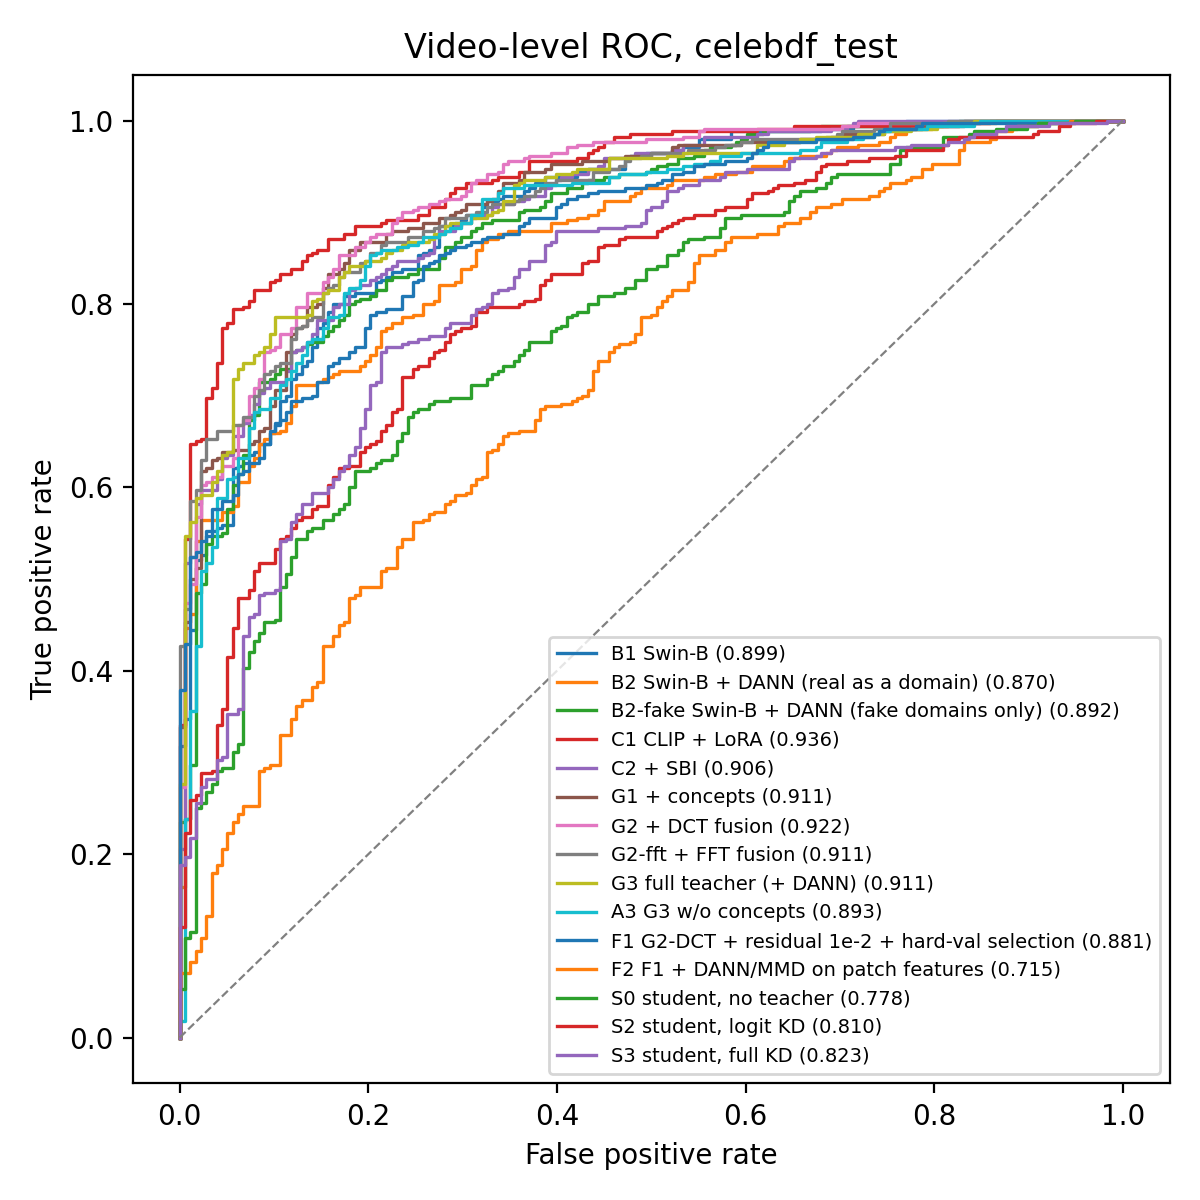
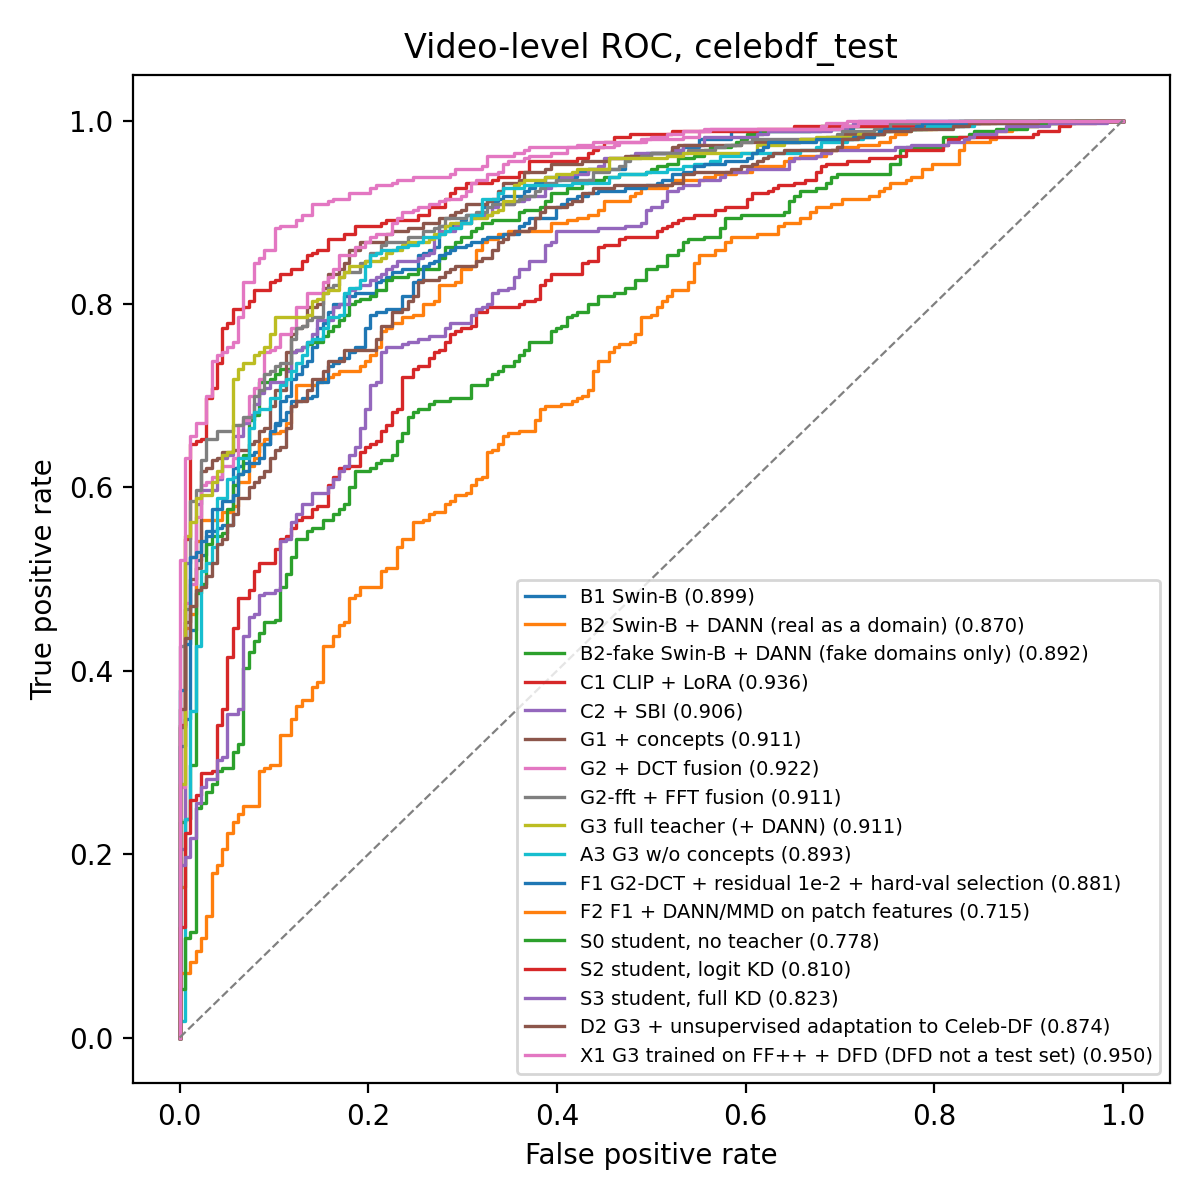
Final eval v2 (690 rows) + tables/summary/release v2; D2/X1 configs; STATUS

diff --git a/results/tables.md b/results/tables.md
@@ -6,7 +6,7 @@ Generated by `scripts/make_tables.py` from the run folders and `results/*.csv`. 
 
 | Model | FF++ test | DFD | Celeb-DF | Cross-dataset |
 | --- | --- | --- | --- | --- |
-| B1 Swin-B | 0.995 | 0.910 | 0.899 | 0.905 |
+| B1 Swin-B | 0.997 ± 0.002 | 0.914 ± 0.004 | 0.889 ± 0.010 | 0.901 ± 0.003 |
 | B2 Swin-B + DANN (real as a domain) | 0.995 | 0.870 | 0.870 | 0.870 |
 | B2-fake Swin-B + DANN (fake domains only) | 0.999 | 0.904 | 0.892 | 0.898 |
 | C1 CLIP + LoRA | 1.000 | 0.943 | 0.936 | 0.939 |
@@ -16,17 +16,19 @@ Generated by `scripts/make_tables.py` from the run folders and `results/*.csv`. 
 | G2-fft + FFT fusion | 0.998 | 0.937 | 0.911 | 0.924 |
 | G3 full teacher (+ DANN) | 1.000 | 0.959 | 0.911 | 0.935 |
 | A3 G3 w/o concepts | 0.998 | 0.962 | 0.893 | 0.928 |
-| F1 G2-DCT + residual 1e-2 + hard-val selection | 0.999 ± 0.000 | 0.949 ± 0.001 | 0.896 ± 0.014 | 0.922 ± 0.008 |
+| F1 G2-DCT + residual 1e-2 + hard-val selection | 0.997 ± 0.003 | 0.951 ± 0.003 | 0.901 ± 0.014 | 0.926 ± 0.008 |
 | F2 F1 + DANN/MMD on patch features | 0.962 | 0.813 | 0.715 | 0.764 |
 | S0 student, no teacher | 0.979 | 0.836 | 0.778 | 0.807 |
 | S2 student, logit KD | 0.991 | 0.869 | 0.810 | 0.839 |
-| S3 student, full KD | 0.981 ± 0.004 | 0.851 ± 0.003 | 0.801 ± 0.022 | 0.826 ± 0.013 |
+| S3 student, full KD | 0.978 ± 0.005 | 0.844 ± 0.011 | 0.808 ± 0.021 | 0.826 ± 0.010 |
+| D2 G3 + unsupervised adaptation to Celeb-DF | 0.999 | 0.949 | 0.874 | 0.911 |
+| X1 G3 trained on FF++ + DFD (DFD not a test set) | 0.997 | – | 0.950 | – |
 
 ### Frame AUC
 
 | Model | FF++ test | DFD | Celeb-DF | Cross-dataset |
 | --- | --- | --- | --- | --- |
-| B1 Swin-B | 0.989 | 0.871 | 0.842 | 0.857 |
+| B1 Swin-B | 0.991 ± 0.002 | 0.875 ± 0.004 | 0.828 ± 0.014 | 0.851 ± 0.005 |
 | B2 Swin-B + DANN (real as a domain) | 0.981 | 0.822 | 0.784 | 0.803 |
 | B2-fake Swin-B + DANN (fake domains only) | 0.990 | 0.881 | 0.851 | 0.866 |
 | C1 CLIP + LoRA | 0.995 | 0.883 | 0.835 | 0.859 |
@@ -36,11 +38,13 @@ Generated by `scripts/make_tables.py` from the run folders and `results/*.csv`. 
 | G2-fft + FFT fusion | 0.980 | 0.886 | 0.813 | 0.850 |
 | G3 full teacher (+ DANN) | 0.992 | 0.909 | 0.816 | 0.863 |
 | A3 G3 w/o concepts | 0.979 | 0.888 | 0.764 | 0.826 |
-| F1 G2-DCT + residual 1e-2 + hard-val selection | 0.983 ± 0.001 | 0.892 ± 0.002 | 0.795 ± 0.012 | 0.844 ± 0.007 |
+| F1 G2-DCT + residual 1e-2 + hard-val selection | 0.982 ± 0.001 | 0.895 ± 0.004 | 0.802 ± 0.013 | 0.848 ± 0.008 |
 | F2 F1 + DANN/MMD on patch features | 0.930 | 0.743 | 0.628 | 0.686 |
 | S0 student, no teacher | 0.961 | 0.802 | 0.719 | 0.760 |
 | S2 student, logit KD | 0.964 | 0.825 | 0.738 | 0.782 |
-| S3 student, full KD | 0.964 ± 0.004 | 0.825 ± 0.001 | 0.740 ± 0.013 | 0.782 ± 0.006 |
+| S3 student, full KD | 0.960 ± 0.006 | 0.820 ± 0.007 | 0.748 ± 0.016 | 0.784 ± 0.006 |
+| D2 G3 + unsupervised adaptation to Celeb-DF | 0.985 | 0.895 | 0.786 | 0.840 |
+| X1 G3 trained on FF++ + DFD (DFD not a test set) | 0.985 | – | 0.868 | – |
 
 ## 2. Ablation (each row changes one thing from the row above)
 
@@ -53,8 +57,8 @@ Generated by `scripts/make_tables.py` from the run folders and `results/*.csv`. 
 | G2-fft + FFT fusion | 0.998 | 0.924 | -0.024 |
 | G3 full teacher (+ DANN) | 1.000 | 0.935 | -0.013 |
 | A3 G3 w/o concepts | 0.998 | 0.928 | -0.007 |
-| F1 G2-DCT + residual 1e-2 + hard-val selection | 0.999 ± 0.000 | 0.922 ± 0.008 | -0.026 |
-| F2 F1 + DANN/MMD on patch features | 0.962 | 0.764 | -0.158 |
+| F1 G2-DCT + residual 1e-2 + hard-val selection | 0.997 ± 0.003 | 0.926 ± 0.008 | -0.022 |
+| F2 F1 + DANN/MMD on patch features | 0.962 | 0.764 | -0.162 |
 
 G2-fft is compared with G1; A3 is compared with G3; F1 with G2-DCT; F2 with F1. Final teacher (picked on val): F1 G2-DCT + residual 1e-2 + hard-val selection.
 
@@ -62,13 +66,13 @@ G2-fft is compared with G1; A3 is compared with G3; F1 with G2-DCT; F2 with F1. 
 
 | Model | clean | jpeg:30 | down:0.25 | h264:40 |
 | --- | --- | --- | --- | --- |
-| B1 Swin-B | 0.905 | 0.844 | 0.790 | 0.588 |
+| B1 Swin-B | 0.901 ± 0.003 | 0.823 ± 0.021 | 0.791 ± 0.001 | 0.590 ± 0.002 |
 | C1 CLIP + LoRA | 0.939 | 0.820 | 0.861 | 0.609 |
 | G3 full teacher (+ DANN) | 0.935 | 0.927 | 0.912 | 0.639 |
-| F1 G2-DCT + residual 1e-2 + hard-val selection | 0.922 ± 0.008 | 0.920 ± 0.005 | 0.892 ± 0.005 | 0.642 ± 0.018 |
+| F1 G2-DCT + residual 1e-2 + hard-val selection | 0.926 ± 0.008 | 0.923 ± 0.006 | 0.897 ± 0.007 | 0.643 ± 0.015 |
 | S0 student, no teacher | 0.807 | 0.808 | 0.816 | 0.598 |
 | S2 student, logit KD | 0.839 | 0.845 | 0.843 | 0.622 |
-| S3 student, full KD | 0.826 ± 0.013 | 0.830 ± 0.011 | 0.830 ± 0.007 | 0.614 ± 0.004 |
+| S3 student, full KD | 0.826 ± 0.010 | 0.833 ± 0.010 | 0.828 ± 0.007 | 0.621 ± 0.011 |
 
 Full grid: `results/robustness.csv`; curves: `results/fig_robustness_<split>.png`.
 
@@ -76,11 +80,11 @@ Full grid: `results/robustness.csv`; curves: `results/fig_robustness_<split>.png
 
 | Model | Params (M) | GFLOPs | GPU frames/s | CPU ms (ONNX, bs 1) | Cross clean | Cross jpeg:50 | Concept ρ vs teacher | Top-map IoU vs teacher |
 | --- | --- | --- | --- | --- | --- | --- | --- | --- |
-| B1 Swin-B | 86.75 | 15.43 | 640.3 | nan | 0.905 | 0.883 | – | – |
-| F1 G2-DCT + residual 1e-2 + hard-val selection | 306.94 | 81.46 | 286.2 | nan | 0.922 ± 0.008 | 0.946 ± 0.009 | – | – |
+| B1 Swin-B | 86.75 | 15.43 | 640.3 | nan | 0.901 ± 0.003 | 0.862 ± 0.021 | – | – |
+| F1 G2-DCT + residual 1e-2 + hard-val selection | 306.94 | 81.46 | 286.2 | nan | 0.926 ± 0.008 | 0.949 ± 0.008 | – | – |
 | S0 student, no teacher | 4.71 | 0.39 | 3834.6 | nan | 0.807 | 0.822 | 0.683 ± 0.038 | 0.149 ± 0.008 |
 | S2 student, logit KD | – | – | – | – | 0.839 | 0.855 | – | – |
-| S3 student, full KD | 4.71 | 0.39 | 3939.3 | 4.2 | 0.826 ± 0.013 | 0.842 ± 0.010 | 0.767 ± 0.022 | 0.121 ± 0.007 |
+| S3 student, full KD | 4.71 | 0.39 | 3939.3 | 4.2 | 0.826 ± 0.010 | 0.843 ± 0.008 | 0.767 ± 0.022 | 0.121 ± 0.007 |
 
 ## 5. Explanations
 

diff --git a/results/summary.md b/results/summary.md
@@ -10,20 +10,20 @@
 
 ## Findings
 
-- Replacing Swin-B with CLIP + LoRA raises cross-dataset video AUC (mean of DFD and Celeb-DF): 0.905 → 0.939 (B1 Swin-B → C1 CLIP + LoRA).
+- Replacing Swin-B with CLIP + LoRA raises cross-dataset video AUC (mean of DFD and Celeb-DF): 0.901 → 0.939 (B1 Swin-B → C1 CLIP + LoRA).
 - Adding self-blended images lowers cross-dataset video AUC (mean of DFD and Celeb-DF): 0.939 → 0.931 (C1 CLIP + LoRA → C2 + SBI).
 - The concept bottleneck raises cross-dataset video AUC (mean of DFD and Celeb-DF): 0.931 → 0.941 (C2 + SBI → G1 + concepts).
 - The DCT branch with gated fusion raises cross-dataset video AUC (mean of DFD and Celeb-DF): 0.941 → 0.948 (G1 + concepts → G2 + DCT fusion).
 - The FFT branch with gated fusion lowers cross-dataset video AUC (mean of DFD and Celeb-DF): 0.941 → 0.924 (G1 + concepts → G2-fft + FFT fusion).
-- DANN on Swin-B with real as a domain (runbook spec) lowers cross-dataset video AUC (mean of DFD and Celeb-DF): 0.905 → 0.870 (B1 Swin-B → B2 Swin-B + DANN (real as a domain)).
-- DANN on Swin-B over fake domains only lowers cross-dataset video AUC (mean of DFD and Celeb-DF): 0.905 → 0.898 (B1 Swin-B → B2-fake Swin-B + DANN (fake domains only)).
+- DANN on Swin-B with real as a domain (runbook spec) lowers cross-dataset video AUC (mean of DFD and Celeb-DF): 0.901 → 0.870 (B1 Swin-B → B2 Swin-B + DANN (real as a domain)).
+- DANN on Swin-B over fake domains only leaves essentially unchanged (±0.005) cross-dataset video AUC (mean of DFD and Celeb-DF): 0.901 → 0.898 (B1 Swin-B → B2-fake Swin-B + DANN (fake domains only)).
 - Removing the concept head from G3 (A3) lowers cross-dataset video AUC (mean of DFD and Celeb-DF): 0.935 → 0.928 (G3 full teacher (+ DANN) → A3 G3 w/o concepts).
-- Residual penalty 1e-2 + harder val selection on G2-DCT (F1) lowers cross-dataset video AUC (mean of DFD and Celeb-DF): 0.948 → 0.922 (G2 + DCT fusion → F1 G2-DCT + residual 1e-2 + hard-val selection).
-- DANN/MMD on patch features (F2 vs F1) lowers cross-dataset video AUC (mean of DFD and Celeb-DF): 0.922 → 0.764 (F1 G2-DCT + residual 1e-2 + hard-val selection → F2 F1 + DANN/MMD on patch features).
+- Residual penalty 1e-2 + harder val selection on G2-DCT (F1) lowers cross-dataset video AUC (mean of DFD and Celeb-DF): 0.948 → 0.926 (G2 + DCT fusion → F1 G2-DCT + residual 1e-2 + hard-val selection).
+- DANN/MMD on patch features (F2 vs F1) lowers cross-dataset video AUC (mean of DFD and Celeb-DF): 0.926 → 0.764 (F1 G2-DCT + residual 1e-2 + hard-val selection → F2 F1 + DANN/MMD on patch features).
 - Domain terms on patch features instead of z (F2 vs G3) lowers cross-dataset video AUC (mean of DFD and Celeb-DF): 0.935 → 0.764 (G3 full teacher (+ DANN) → F2 F1 + DANN/MMD on patch features).
 - Full distillation over a teacher-free student raises cross-dataset video AUC (mean of DFD and Celeb-DF): 0.807 → 0.826 (S0 student, no teacher → S3 student, full KD).
-- Under JPEG quality 30, raises cross-dataset video AUC (mean of DFD and Celeb-DF) at jpeg:30: 0.808 → 0.830 (S0 student, no teacher → S3 student, full KD).
-- Under JPEG quality 30, lowers cross-dataset video AUC (mean of DFD and Celeb-DF) at jpeg:30: 0.844 → 0.830 (B1 Swin-B → S3 student, full KD).
+- Under JPEG quality 30, raises cross-dataset video AUC (mean of DFD and Celeb-DF) at jpeg:30: 0.808 → 0.833 (S0 student, no teacher → S3 student, full KD).
+- Under JPEG quality 30, raises cross-dataset video AUC (mean of DFD and Celeb-DF) at jpeg:30: 0.823 → 0.833 (B1 Swin-B → S3 student, full KD).
 - The S3 student has 4.71 M parameters and 0.39 GFLOPs vs 306.94 M and 81.46 GFLOPs for the teacher (f1_grace_dct); ONNX CPU latency 4.2 ms per face.
 - Pointing game on held-out SBI blends: F1 c1 0.52, F1 region 0.94, B1 Grad-CAM 0.15, C1 rollout 0.01, S3 c1 0.72, random 0.25.
 

diff --git a/STATUS.md b/STATUS.md
@@ -3,7 +3,7 @@
 ## Currently running
 
 - Queue runner: `scripts/start_queue.ps1` (detached; restart with `powershell -ExecutionPolicy Bypass -File scripts/start_queue.ps1`). State: `runs/_queue/state.json`, logs: `runs/_queue/<job>.log`, heartbeat: `runs/_queue/heartbeat.txt`.
-- GPU job: `final_eval_all_v2` (started 12:50), then make_tables_v2 (tables, summary, release refresh); after that D2, B1 seed 1, X1, then a v2 refresh of eval/tables/summary/release; app check, final evaluation of all models, tables, summary, release; agreement, benchmark, calibration, explanations, final seeds 1/2), then teacher cache + students S0/S2/S3 from the final teacher, ONNX export, benchmark, calibration, explanations, app check, final eval + tables; then fillers (see queue.yaml).
+- GPU job: `s0_student_s1` (started 14:55), then S0 s2, S2 s1/s2, X1 s1, final_eval_all_v3, make_tables_v3; after that D2, B1 seed 1, X1, then a v2 refresh of eval/tables/summary/release; app check, final evaluation of all models, tables, summary, release; agreement, benchmark, calibration, explanations, final seeds 1/2), then teacher cache + students S0/S2/S3 from the final teacher, ONNX export, benchmark, calibration, explanations, app check, final eval + tables; then fillers (see queue.yaml).
 - Watch live: `Get-Content runs\_queue\<job>.log -Wait -Tail 20` (queue: `runs\_queue\runner.log`).
 - B1 epoch time with the GPU to itself: ~4 min (198 img/s).
 
@@ -167,3 +167,4 @@ See `splits/counts.md` for the full table.
 - 2026-11-19 10:06 D2 done: FF++ 0.9989 / DFD 0.9488 / Celeb-DF 0.8736; concept share 0.75-0.95, concept AUCs on SBI-test match F1 (c1 0.98, c6-c8 0.99): **no collapse at weight 0.01** (F2 at 0.1 collapsed). But unsupervised adaptation to Celeb-DF did **not** help Celeb-DF: 0.874 vs F1 0.901±0.017 over 3 seeds (about 1.6 std lower). Reported as a negative result; F1 stays final. Next: B1 seed 1.
 - 2026-11-19 10:56 B1 seed 1 done: FF++ 0.9997 / DFD 0.9180 / Celeb-DF 0.8783 (best epoch 2). B1 over 2 seeds: DFD 0.914, Celeb-DF 0.889; F1 (3 seeds) stays ahead on DFD (0.951) and Celeb-DF (0.901). Next: X1 (FF++ + DFD training).
 - 2026-11-19 12:50 X1 done (F1 recipe, training data FF++ + DFD): FF++ 0.9971, **Celeb-DF 0.9499** vs F1 0.901±0.017 trained on FF++ only (+0.049, ~3 std). Adding a second source of real/fake data helps cross-dataset generalisation far more than unsupervised target adaptation (D2: 0.874). DFD test not reported (same source as training). Concept share 0.85. Next: final_eval_all_v2 then make_tables_v2.
+- 2026-11-19 14:55 final_eval_all_v2 (690 rows, now 3 seeds for F1/S3, 2 for B1, plus D2) and make_tables_v2 (tables, summary, release) done. Seed-averaged cross-dataset means moved slightly: B1 0.905 -> 0.901, F1 0.922 -> 0.926; S3 vs S0 at jpeg:30 0.833 vs 0.808. Queued Day-6 fillers: S0/S2 seeds 1-2, X1 seed 1, v3 refresh.
